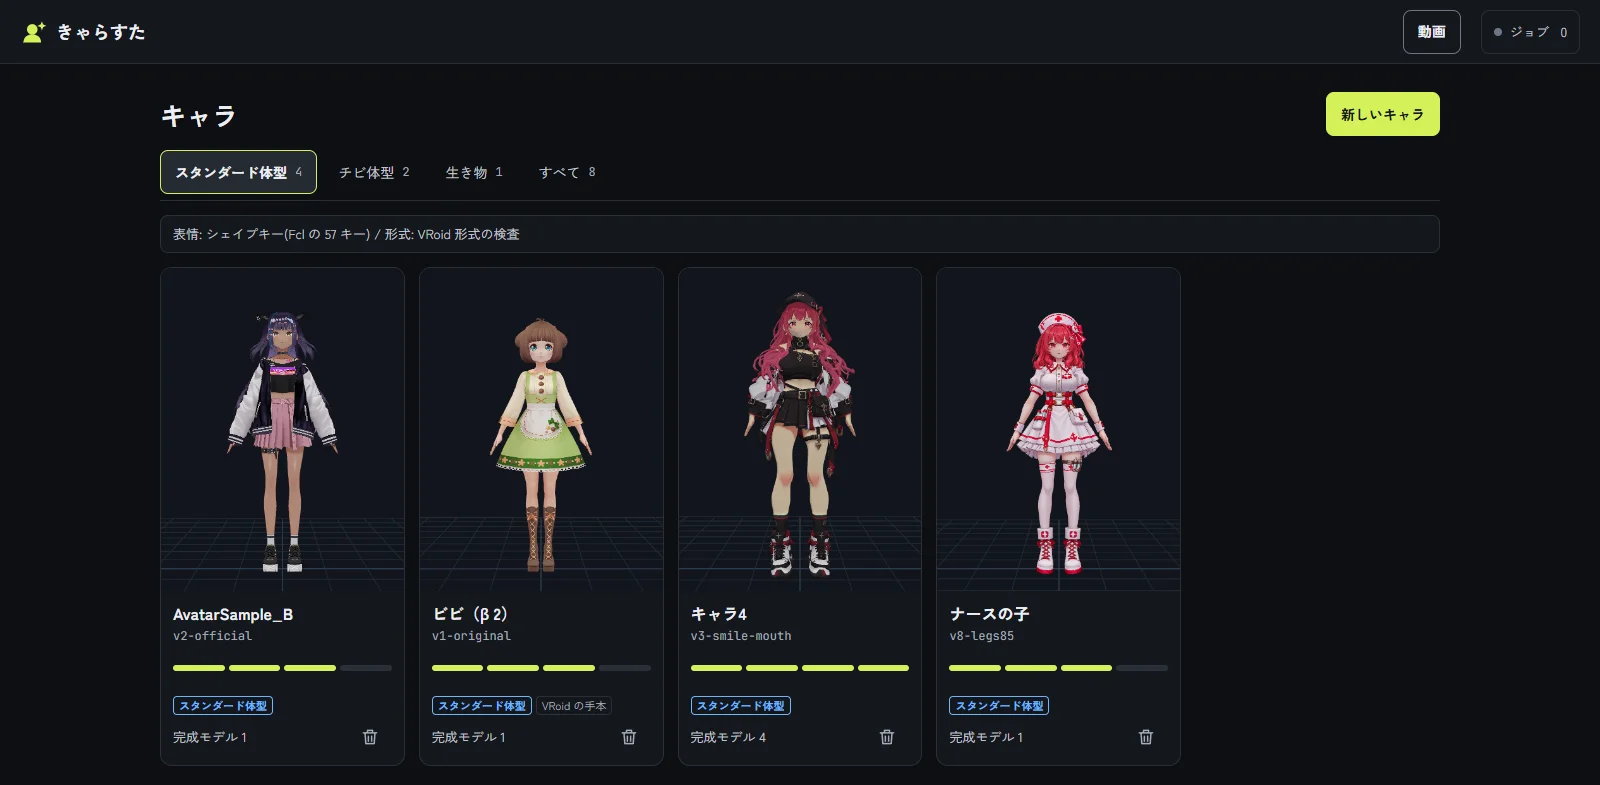
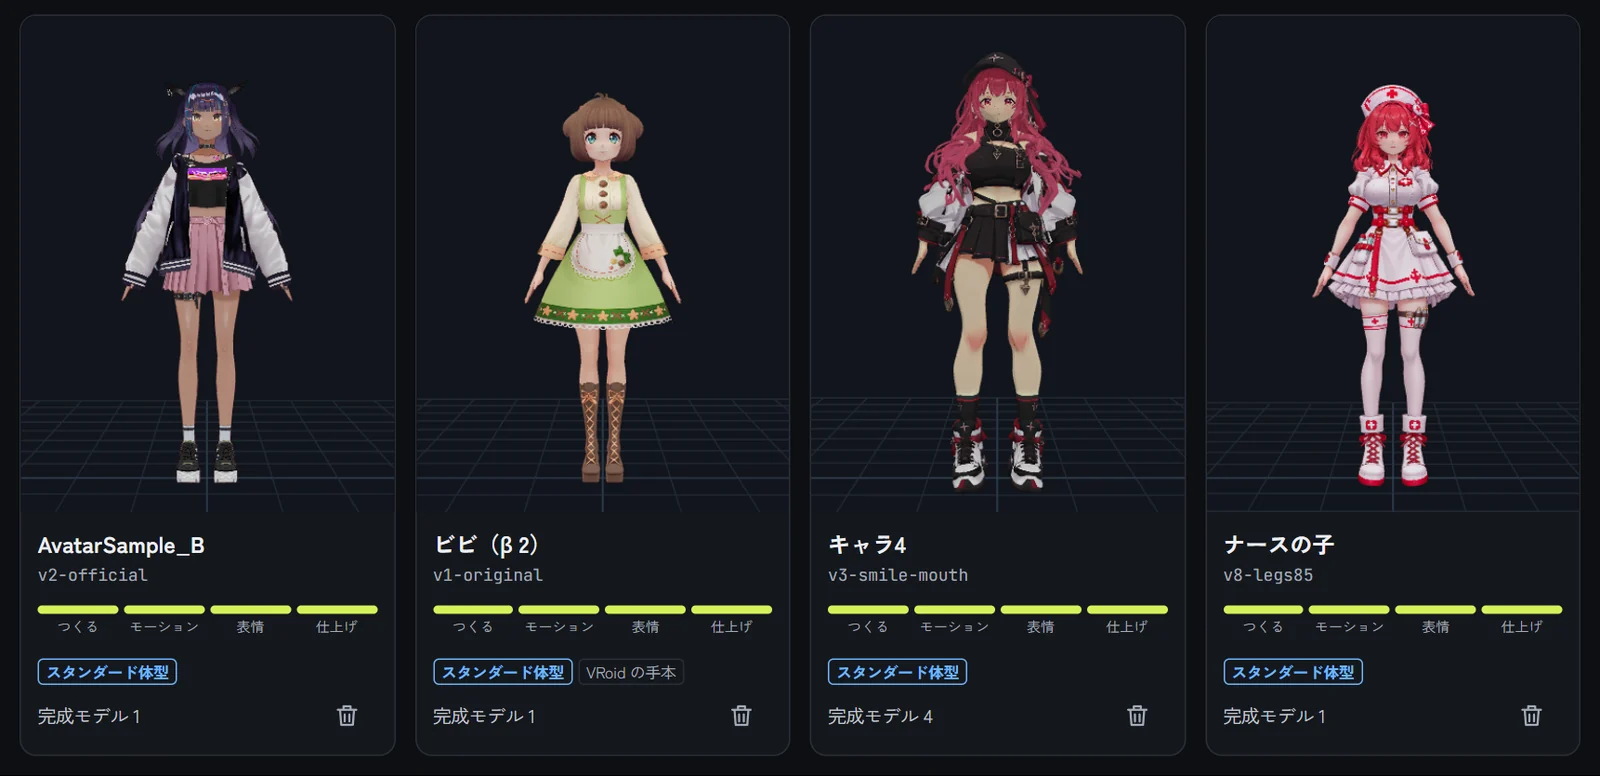
README の画面の写真を今の画面に撮り直し、古い用語を直す
ショートの編集、モーション、キャラの一覧の写真を、キット版の表示で撮り直した(モーション画面の分離と用語の変更の後)。README.ja.md の「頼む」「シーン」を「依頼」「ステージ」に直した。きゃらすた本体の画面の変更(PR #84 から #87)をキットに同期するときに一緒に入れる。

Claude-Session: https://claude.ai/code/session_01CC1h7jGEudjFU6soPeJ9LX

diff --git a/README.ja.md b/README.ja.md
@@ -14,7 +14,7 @@
 - キャラと版の一覧、ビューア、撮影(サムネイル、角度、表情、リップシンク)。キャラの作り方はきゃらくる(Tripo Studio)
 - セリフと声、表情づくり(Blender を使う)、体型と揺れものの調整(新しい版として保存)
 - モーションの取り込み(VRMA)と、動画からのモーションづくり、MotionBricks(任意の機能)
-- ステージの一覧と下見。新しいステージはエージェントに頼んで足す
+- ステージの一覧と下見。新しいステージはエージェントに依頼して追加する
 - ショート動画(対話型)とダンス MV の制作(同梱の `stage-studio/` が Blender で描く)
 
 このキットは、作者の版から機能を絞った簡単なスタジオです(版の種類 `kit`。`docs/edition.md`)。
@@ -113,16 +113,16 @@ npm start
 | `motionbricksDir` | MotionBricks のリポジトリ | 未設定 |
 | `motionbricksBackend` | MotionBricks の推論。`auto`(TensorRT が動けば TensorRT、動かなければ ONNX Runtime)、`trt`、`onnx` | `auto` |
 | `vrmaPipelineDir` | 動画からモーションを作る道具 | 未設定 |
-| `stageStudioDir` | MV とショートのシーンを描く stage-studio | 同梱の `stage-studio/` |
+| `stageStudioDir` | MV とショートのステージを描く stage-studio | 同梱の `stage-studio/` |
 | `voicevoxDir` | VOICEVOX Engine の場所。127.0.0.1:50021 で動いていればそれを使う | 未設定 |
 | `hyperframesCli`、`hyperframesBrowser` | HyperFrames の `cli.js` と Chrome の実体 | 未設定 |
 | `env` | ジョブの外部コマンドに足す環境変数 | なし |
 
 値が `null` か空文字のキーは未設定として扱います。環境変数 `CHARASTA_CONFIG` で別の設定ファイルを指せます。ほかの環境変数は `CHARASTA_PYTHON`、`CHARASTA_FFMPEG`、`CHARASTA_FFPROBE`、`CHARASTA_YTDLP`、`CHARASTA_ENCODER`、`CHARASTA_HW_ENCODER` です。
 
-## エージェントに頼む
+## エージェントに依頼する
 
-画面の頼みごと(ショートの直し、新しいステージ、体型と揺れものの直し、表情づくりの絵)と、キャラやモーションの取り込みは、エージェントに進めてもらえます。Codex でも Claude Code でも使えます。このフォルダを作業の場所にして開き、「きゃらすたの依頼を進めて」のように頼みます。エージェントへの手引きは `AGENTS.md`(Claude Code は `CLAUDE.md` から読む)、作業ごとの手順は `skills/` です。画面のボタンの名前は「エージェントに頼む」です。
+画面からの依頼(ショートの直し、新しいステージ、体型と揺れものの直し、表情づくりの絵)と、キャラやモーションの取り込みは、エージェントに進めてもらえます。Codex でも Claude Code でも使えます。このフォルダを作業の場所にして開き、「きゃらすたの依頼を進めて」のように頼みます。エージェントへの手引きは `AGENTS.md`(Claude Code は `CLAUDE.md` から読む)、作業ごとの手順は `skills/` です。画面のボタンの名前は「エージェントに頼む」です。
 
 ## 取り込みと撮影
 
@@ -142,7 +142,7 @@ node tools/thumb.mjs --char chara4 --ver v3
 ## 構成
 
 - `AGENTS.md`: エージェント(Codex、Claude Code など)への手引き。`CLAUDE.md` は Claude Code が読む入口で、`AGENTS.md` を読み込むだけ
-- `skills/`: エージェントの作業ごとの手順(頼みごと、取り込み)。`.agents/skills/`(Codex が探す)と `.claude/skills/`(Claude Code が探す)は同じ中身の写し
+- `skills/`: エージェントの作業ごとの手順(依頼、取り込み)。`.agents/skills/`(Codex が探す)と `.claude/skills/`(Claude Code が探す)は同じ中身の写し
 - `edition.json`: 版の種類(`kit`)。消すと作者の版として動くが、その機能の道具と文書はこのキットに入っていない
 - `server.mjs`、`lib/`: サーバー
 - `public/`: 画面

diff --git a/README.md b/README.md
@@ -115,7 +115,7 @@ To change it, set `libraryDir` in `config.json`. Imported files are never change
 | `motionbricksDir` | The MotionBricks repository | Not set |
 | `motionbricksBackend` | MotionBricks inference: `auto` (TensorRT if it runs, otherwise ONNX Runtime), `trt` or `onnx` | `auto` |
 | `vrmaPipelineDir` | The tool that makes motions from video | Not set |
-| `stageStudioDir` | stage-studio, which draws the scenes for MVs and shorts | The bundled `stage-studio/` |
+| `stageStudioDir` | stage-studio, which draws the stages for MVs and shorts | The bundled `stage-studio/` |
 | `voicevoxDir` | Location of VOICEVOX Engine. If one is already running on 127.0.0.1:50021, that one is used | Not set |
 | `hyperframesCli`, `hyperframesBrowser` | The HyperFrames `cli.js` and the Chrome executable | Not set |
 | `env` | Environment variables added to the external commands that jobs run | None |
